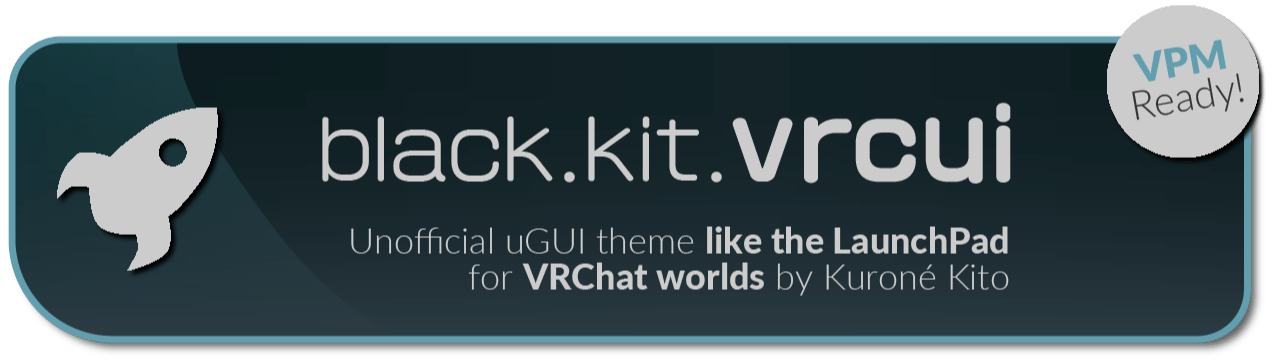
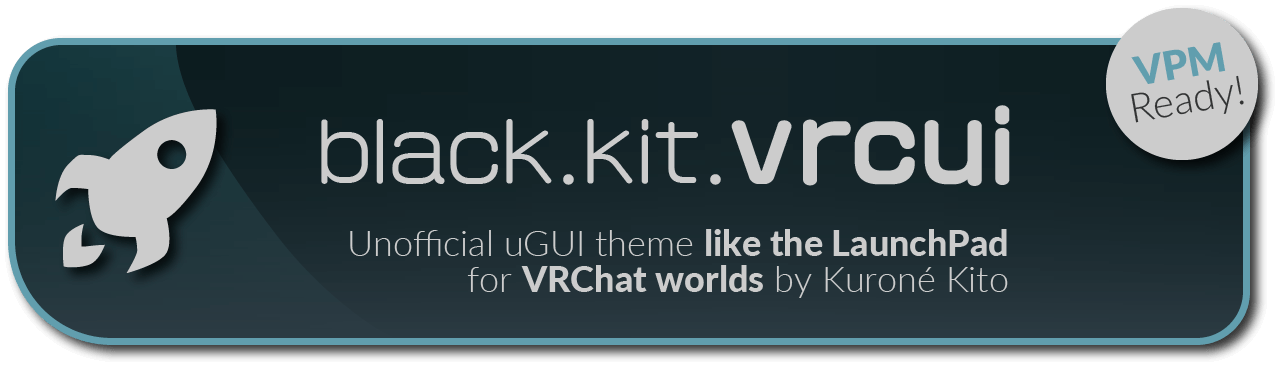
docs: improved the documents

diff --git a/.github/CODE_OF_CONDUCT.ja.md b/.github/CODE_OF_CONDUCT.ja.md
@@ -4,78 +4,65 @@ Language: [🇬🇧](./CODE_OF_CONDUCT.md) | **🇯🇵** | [🇨🇳](./CODE_OF
 
 ## 私たちの約束
 
-メンバー、コントリビューター、およびリーダーとして、年齢、体の大きさ、目に見えるまたは目に見えない障害、民族性、性別、
-性同一性、表現、経験のレベル、教育、社会経済的地位、国籍、人格、人種、宗教、または性的同一性と指向に関係なく、
-コミュニティへの参加をハラスメントのない体験にすることを誓います。
+メンバー、コントリビューター、およびリーダーとして、年齢、体の大きさ、目に見えるまたは目に見えない障害、民族性、性的特徴、性同一性とジェンダー表現、経験のレベル、教育、社会経済的地位、国籍、人格、人種、カースト、肌の色、宗教、または性的同一性と性的指向に関係なく、コミュニティへの参加をハラスメントのない体験にすることを誓います。
 
 私たちは、オープンで親しみやすく、多様で包括的で健全なコミュニティに貢献する方法で行動し、交流することを誓います。
 
 ## 私たちの標準
 
-前向きな環境を作り上げることに貢献する行動の例：
+前向きな環境を作り上げることに貢献する行動の例:
 
 - 他人への共感と優しさを示す
-
 - 異なる意見、視点、経験を尊重する
-
-- 建設的なフィードバックを与え、優雅に受け入れる
-
+- 建設的なフィードバックを与え、礼儀正しく受け入れる
 - 私たちの過ちの影響を受けた人々に責任を受け入れ、謝罪し、そしてその経験から学ぶ
-
 - 個人としてだけでなく、コミュニティ全体にとっても最善であることに焦点を当てる
 
-許容できない行動の例は次のとおりです。
+許容できない行動の例は次のとおりです:
 
 - 性的な言葉や画像の使用、および性的な注意またはその他あらゆる種類の問題行為
-
 - トローリング、侮辱的または中傷的なコメント、個人的または政治的攻撃
-
 - 公的またはプライベートの嫌がらせ
-
 - 明示的な許可なしに、住所や電子メールアドレスなど、他者の個人情報を公開する
-
 - 職業上不適切と合理的に考えられるその他の行為
 
 ## 執行責任
 
 コミュニティリーダーは、許容される行動の基準を明確にし、実施する責任があり、不適切、脅迫的、攻撃的、または有害と見なされる行動に応じて、適切で公正な是正措置を講じます。
 
-コミュニティリーダーは、コメント、コミット、コード、wiki の編集、問題、およびこの行動規範に沿っていないその他の貢献を削除、編集、または拒否する権利と責任を持ち、適切な場合はモデレーションの決定の理由を伝えます。
+コミュニティリーダーは、コメント、コミット、コード、wikiの編集、問題、およびこの行動規範に沿っていないその他の貢献を削除、編集、または拒否する権利と責任を持ち、適切な場合はモデレーションの決定の理由を伝えます。
 
 ## 適用範囲
 
-この行動規範は、すべてのコミュニティスペース内で適用され、個人がパブリックスペースでコミュニティを公式に代表している場合にも適用されます。
-私たちのコミュニティを代表する例には、公式の電子メールアドレスの使用、公式のソーシャルメディアアカウントを介した投稿、オンラインまたはオフラインのイベントでの指定代理人としての行動などがあります。
+この行動規範は、すべてのコミュニティスペース内で適用され、個人がパブリックスペースでコミュニティを公式に代表している場合にも適用されます。私たちのコミュニティを代表する例には、公式の電子メールアドレスの使用、公式のソーシャルメディアアカウントを介した投稿、オンラインまたはオフラインのイベントでの指定代理人としての行動などがあります。
 
 ## 執行
 
-虐待的、嫌がらせ、またはその他の許容できない行動の事例は、執行を担当するコミュニティリーダーに対して [Issues](https://github.com/kurone-kito/vrc-ui/issues) で報告される場合があります。
-すべての苦情は迅速かつ公正にレビューおよび調査されます。
+虐待的、嫌がらせ、またはその他の許容できない行動の事例は、執行を担当するコミュニティリーダーに対して [Issues](https://github.com/kurone-kito/vrc-ui/issues) で報告される場合があります。すべての苦情は迅速かつ公正にレビューおよび調査されます。
 
 すべてのコミュニティリーダーは、問題の報告者のプライバシーとセキュリティを尊重する義務があります。
 
 ## 執行ガイドライン
 
-コミュニティリーダーは、この行動規範に違反していると見なした行動への帰結を判断する際に、これらのコミュニティガイドラインに従います。
+コミュニティリーダーは、この行動規範に違反していると見なした行動への帰結を判断する際に、これらのコミュニティガイドラインに従います:
 
 ### 1. 更生
 
 **コミュニティへの影響**: コミュニティで専門家にふさわしくない、または歓迎されないと思われる不適切な言葉の使用やその他の不適切な行動をすること。
 
-**帰結**: コミュニティリーダーからの非公開の書面による警告。違反の理由を明確にし、行動が不適切だった理由を説明します。 公の謝罪が要求される場合があります。
+**帰結**: コミュニティリーダーからの非公開の書面による警告。違反の理由を明確にし、行動が不適切だった理由を説明します。公の謝罪が要求される場合があります。
 
 ### 2. 警告
 
 **コミュニティへの影響**: 単一の出来事または一連の動作による違反。
 
-**帰結**: 持続的な行動の結果を伴う警告。 指定された期間、行動規範の実施者との一方的な対話を含め、関係者との対話はありません。 これには、コミュニティスペースやソーシャルメディアなどの外部チャネルでの相互作用の回避が含まれます。 これらの条件に違反すると、一時的または永続的に禁止される場合があります。
+**帰結**: 持続的な行動の結果を伴う警告。指定された期間、行動規範の実施者との一方的な対話を含め、関係者との対話はありません。これには、コミュニティスペースやソーシャルメディアなどの外部チャネルでの相互作用の回避が含まれます。これらの条件に違反すると、一時的または永続的に禁止される場合があります。
 
 ### 3. 一時的な禁止
 
 **コミュニティへの影響**: 持続的で不適切な行動を含む、コミュニティ標準の重大な違反。
 
-**帰結**: 指定された期間のコミュニティとのあらゆる種類の相互関係または公的なコミュニケーションの一時的な禁止。 この期間中、行動規範を実施する人々との一方的な対話を含め、関係する人々との公的または私的な対話は許可されません。
-これらの条件に違反すると、永久的に禁止される場合があります。
+**帰結**: 指定された期間のコミュニティとのあらゆる種類の相互関係または公的なコミュニケーションの一時的な禁止。この期間中、行動規範を実施する人々との一方的な対話を含め、関係する人々との公的または私的な対話は許可されません。これらの条件に違反すると、永久的に禁止される場合があります。
 
 ### 4. 永久的な禁止
 
@@ -85,10 +72,14 @@ Language: [🇬🇧](./CODE_OF_CONDUCT.md) | **🇯🇵** | [🇨🇳](./CODE_OF
 
 ## 帰属
 
-この行動規範は、<https://www.contributor-covenant.org/version/2/0/code_of_conduct.html> で利用可能な [Contributor Covenant][homepage] バージョン 2.0 を基に作成されています。
+この行動規範は、[https://www.contributor-covenant.org/version/2/1/code_of_conduct.html][v2.1]で利用可能な[Contributor Covenant][homepage] バージョン 2.1を基に作成されています。
 
-コミュニティへの影響ガイドラインは[Mozilla's code of conduct enforcement ladder](https://github.com/mozilla/diversity)に適合しています。
+コミュニティへの影響ガイドラインは[Mozilla's code of conduct enforcement ladder][Mozilla CoC]に適合しています。
+
+この行動規範に関する一般的な質問への回答については、[https://www.contributor-covenant.org/faq][FAQ]のFAQを参照してください。翻訳は[https://www.contributor-covenant.org/translations][translations]で入手できます。
 
 [homepage]: https://www.contributor-covenant.org
-
-この行動規範に関する一般的な質問への回答については、<https://www.contributor-covenant.org/faq> の FAQ を参照してください。翻訳は<https://www.contributor-covenant.org/translations> で入手できます。
+[v2.1]: https://www.contributor-covenant.org/version/2/1/code_of_conduct.html
+[Mozilla CoC]: https://github.com/mozilla/diversity
+[FAQ]: https://www.contributor-covenant.org/faq
+[translations]: https://www.contributor-covenant.org/translations

diff --git a/.github/CONTRIBUTING.ja.md b/.github/CONTRIBUTING.ja.md
@@ -4,16 +4,16 @@ Language: [🇬🇧](./CONTRIBUTING.md) | **🇯🇵** | [🇨🇳](./CONTRIBUTI
 
 ---
 
-このリポジトリに貢献する際には、変更を加える前に、このリポジトリの所有者と
-[Issues](https://github.com/kurone-kito/vrc-ui/issues)
-やその他の方法で変更したいことについて最初に話し合ってください。
-
-[行動規範](./CODE_OF_CONDUCT.ja.md)がありますので、
-プロジェクトとのやり取りのすべてに従ってください。
-
-もしあなたのアイデアが小さな修正で示せるのなら、
-[Pull request](https://github.com/kurone-kito/vrc-ui/pulls)
-を直接活用してください。
-
-このリポジトリでは、[英語、または日本語](https://translate.google.com/)
-での議論を推奨しています。
+1. [行動規範](./CODE_OF_CONDUCT.ja.md)がありますので、
+   プロジェクトとのやり取りのすべてに従ってください。
+2. このリポジトリに貢献する際には、変更を加える前に、このリポジトリの所有者と
+   [Issues](https://github.com/kurone-kito/vrc-ui/issues)
+   やその他の方法で変更したいことについて最初に話し合ってください。
+3. もしあなたのアイデアが**小さな修正で示せるのなら、
+   [Pull request](https://github.com/kurone-kito/vrc-ui/pulls)
+   を直接活用**してください。
+   - このリポジトリでは、時々プルリクエストとリリースとを一対一で紐づけて運用しがちですが、
+     それは**必須ではありません**。お気軽なプルリクエストをお待ちしています。
+4. このリポジトリでは、できる限り
+   **[英語、または日本語](https://translate.google.com/)
+   での議論**を推奨しています。

diff --git a/.github/CONTRIBUTING.md b/.github/CONTRIBUTING.md
@@ -4,10 +4,16 @@ Language: **🇬🇧** | [🇯🇵](./CONTRIBUTING.ja.md) | [🇨🇳](./CONTRIB
 
 ---
 
-When contributing to this repository, please first discuss the change you wish to make via [Issues](https://github.com/kurone-kito/vrc-ui/issues) or any other method with the owners of this repository before making a change.
-
-Please note we have a [code of conduct](./CODE_OF_CONDUCT.md), please follow it in all your interactions with the project.
-
-If your idea can be shown with a minor fix, please use directly the [pull request](https://github.com/kurone-kito/vrc-ui/pulls).
-
-In this repository, discussion [in English or Japanese](https://translate.google.com/) is recommended.
+1. Please note we have a [code of conduct](./CODE_OF_CONDUCT.md), please
+   follow it in all your interactions with the project.
+2. When contributing to this repository,
+   please first discuss the change you wish to make via
+   [Issues](https://github.com/kurone-kito/vrc-ui/issues) or any
+   other method with the owners of this repository before making a change.
+3. If your idea can be shown **with a minor fix, please use directly the
+   [pull request](https://github.com/kurone-kito/vrc-ui/pulls)**.
+   - This repository sometimes operates with a one-to-one tie between pull
+     requests and releases, which is **not required**.  
+     We welcome your pull requests.
+4. In this repository, discussion
+   **[in English or Japanese](https://translate.google.com/) is recommended**.

diff --git a/Packages/black.kit.vrcui/README.md b/Packages/black.kit.vrcui/README.md
@@ -1,6 +1,4 @@
-# 💬 uGUI Theme for VRChat
-
-Unity uGUI theme for VRChat.
+# ![black.kit.vrcui: Unofficial uGUI theme like the LaunchPad for VRChat worlds](https://kurone-kito.github.io/vrc-ui/banner.png)
 
 ## 💡 Features
 

diff --git a/README.md b/README.md
@@ -1,6 +1,4 @@
-# 💬 uGUI Theme for VRChat
-
-Unity uGUI theme for VRChat.
+# ![black.kit.vrcui: Unofficial uGUI theme like the LaunchPad for VRChat worlds](https://kurone-kito.github.io/vrc-ui/banner.png)
 
 ## 💡 Features
 
